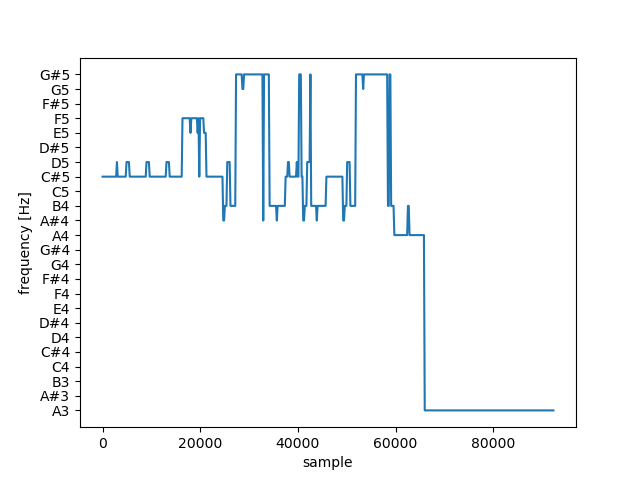
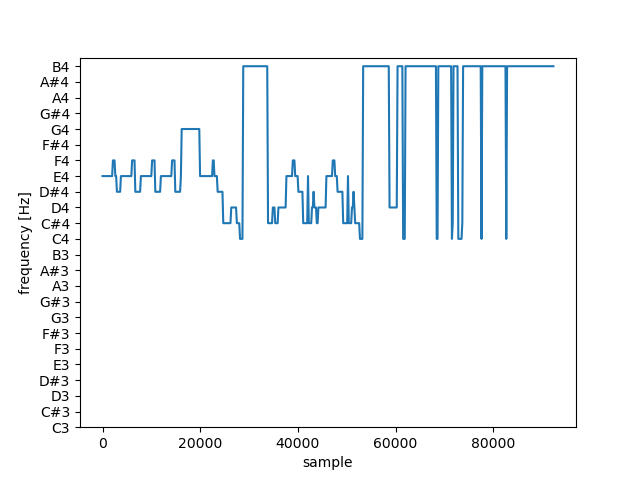
重みづけを修正

Changed region(s): [[0.1562, 0.125, 0.875, 0.5], [0.0625, 0.125, 0.125, 0.9062], [0.6562, 0.5312, 0.875, 0.875]]

diff --git a/21_melody.py b/21_melody.py
@@ -35,14 +35,16 @@ def spectrogram(waveform, size_frame, size_shift):
 
 def shs(spectrum, sample_rate, size_frame):
   likelihood = np.zeros(len(NOTES))
+  for idx in range(len(spectrum)):
+    if idx == 0:
+      continue
 
-  for idx in range(len(likelihood)):
-    base_freq = nn2hz(NOTES[idx])
+    freq = idx * sample_rate / size_frame
+    nn = hz2nn(freq)
+    if nn not in NOTES:
+      continue
     for i in range(1, 16):
-      freq = base_freq * i
-      fft_idx = int(freq * size_frame / sample_rate)
-      likelihood[idx] += 0.8**i * np.exp(spectrum[fft_idx])
-
+      likelihood[nn - NOTES[0]] += np.exp(spectrum[idx]) * 0.8**i
   return NOTES[np.argmax(likelihood)]
 
 
